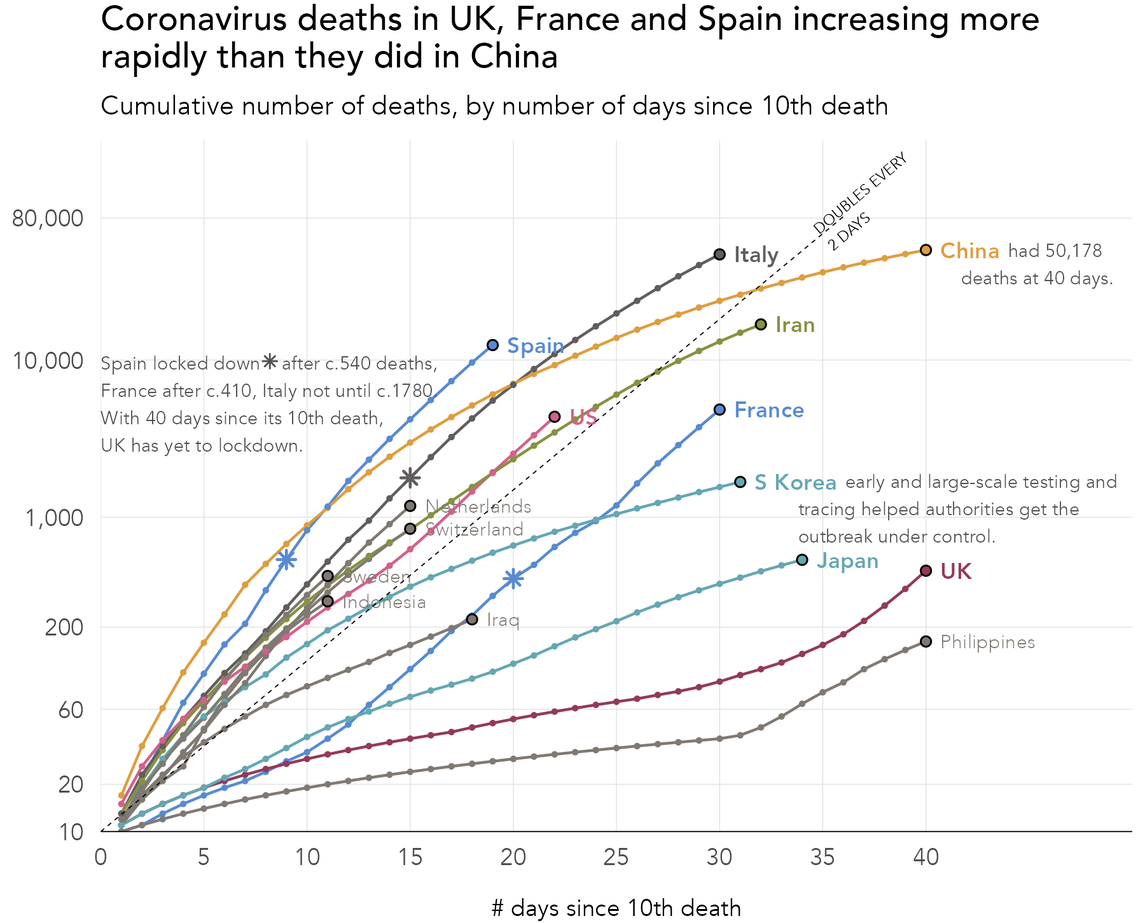
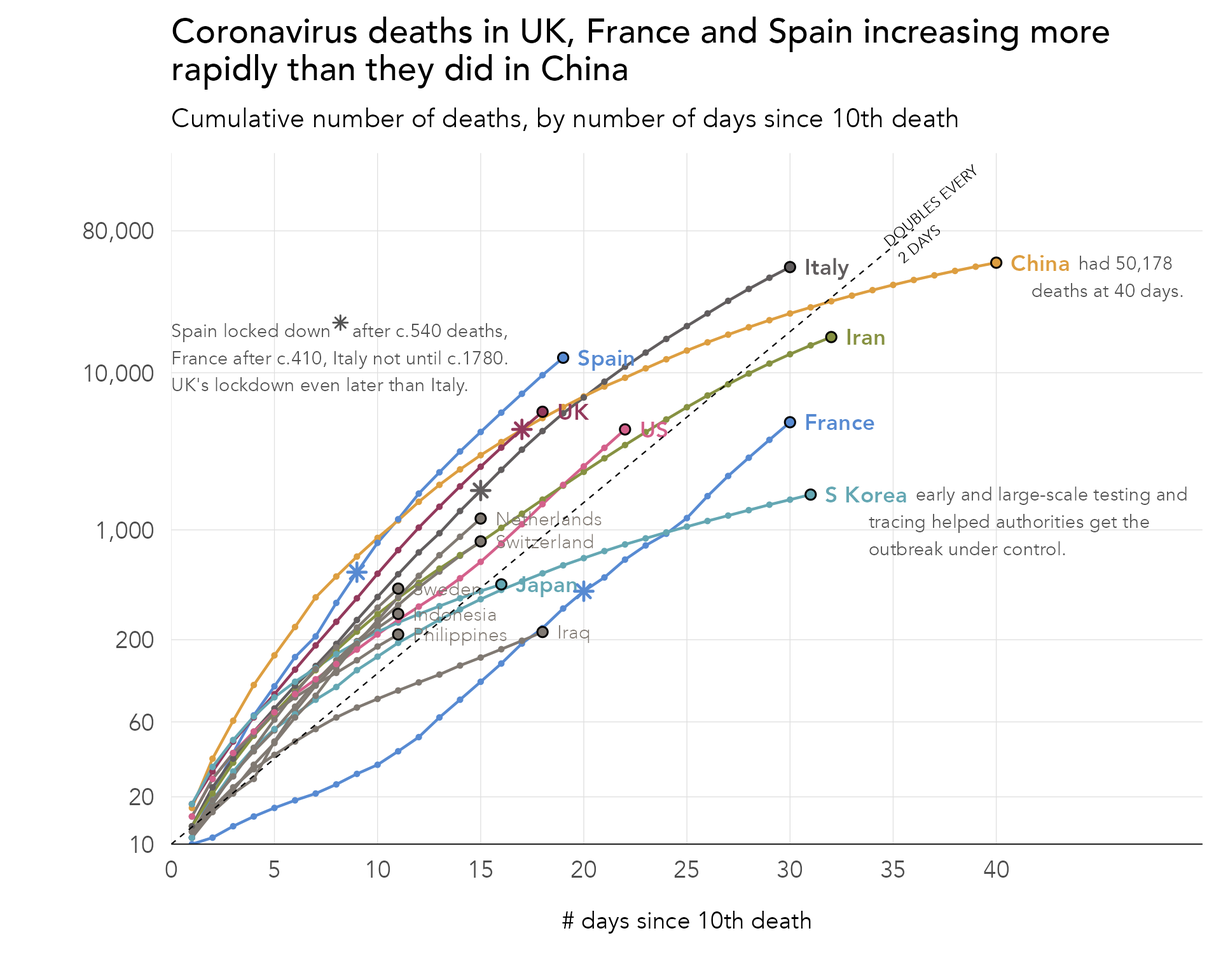
Deploy commit: ch8 updates efdb2c36f5c6d6f52aff2c126f9e9a9bf12e75d7

diff --git a/08-storytelling.html b/08-storytelling.html
@@ -312,19 +312,12 @@ Create ggplot2 graphics with non-standard annotations.</li>
 <p>In the sections that follow, we review some key Covid-19 visualizations and reflect on how they implement these sorts of storytelling devices.</p>
 </section><section id="designed-and-partial" class="level3" data-number="8.2.2"><h3 data-number="8.2.2" class="anchored" data-anchor-id="designed-and-partial">
 <span class="header-section-number">8.2.2</span> Designed and partial</h3>
-<p>Perhaps the most high-profile examples through the Covid-19 pandemic of data graphics specialised to communication were those produced by the Financial Times <span class="citation" data-cites="ft_coronavirus_2020">(<a href="references.html#ref-ft_coronavirus_2020" role="doc-biblioref">Financial Times 2020</a>)</span>. <span class="quarto-unresolved-ref">?fig-ft-vis</span> displays the most ubiquitous, the Financial Times’s trajectory tracker. Along the y-axis, cumulative numbers of deaths, and in other charts cases, are compared between countries with a log-scale. Along the x-axis is number of days that have elapsed since some threshold number of cases or deaths were recorded in each country and the y-axis counts of deaths presented on a log scale.</p>
+<p>Perhaps the most high-profile examples through the Covid-19 pandemic of data graphics specialised to communication were those produced by the Financial Times <span class="citation" data-cites="ft_coronavirus_2020">(<a href="references.html#ref-ft_coronavirus_2020" role="doc-biblioref">Financial Times 2020</a>)</span>. <a href="#fig-ft-vis">Figure&nbsp;<span>8.1</span></a> displays the most ubiquitous, the Financial Times’s trajectory tracker. Along the y-axis, cumulative numbers of deaths, and in other charts cases, are compared between countries with a log-scale. Along the x-axis is number of days that have elapsed since some threshold number of cases or deaths were recorded in each country and the y-axis counts of deaths presented on a log scale.</p>
 <div class="cell">
 <div class="cell-output-display">
-<div id="fig-ft-vis-1" class="quarto-figure quarto-figure-center anchored">
-<figure class="figure"><p><img src="figs/08/jbm-logchart.jpeg" class="img-fluid figure-img" style="width:95.0%"></p>
-<p></p><figcaption aria-hidden="true" class="figure-caption">Figure 8.1: <a href="https://www.ft.com/john-burn-murdoch">John Burn-Murdoch</a>’s international comparison of deaths, as it appeared on <a href="https://twitter.com/jburnmurdoch/status/1241820210455285760">twitter</a>. <strong>TO DO: Update with own implementation due to Copyright reasons.</strong></figcaption><p></p>
-</figure>
-</div>
-</div>
-<div class="cell-output-display">
-<div id="fig-ft-vis-2" class="quarto-figure quarto-figure-center anchored">
+<div id="fig-ft-vis" class="quarto-figure quarto-figure-center anchored">
 <figure class="figure"><p><img src="figs/08/cum_deaths_full.png" class="img-fluid figure-img" style="width:95.0%"></p>
-<p></p><figcaption aria-hidden="true" class="figure-caption">Figure 8.2: <a href="https://www.ft.com/john-burn-murdoch">John Burn-Murdoch</a>’s international comparison of deaths, as it appeared on <a href="https://twitter.com/jburnmurdoch/status/1241820210455285760">twitter</a>. <strong>TO DO: Update with own implementation due to Copyright reasons.</strong></figcaption><p></p>
+<p></p><figcaption aria-hidden="true" class="figure-caption">Figure 8.1: <a href="https://www.ft.com/john-burn-murdoch">John Burn-Murdoch</a>’s international comparison of deaths, as it appeared on <a href="https://twitter.com/jburnmurdoch/status/1241820210455285760">twitter</a>. For copyright reasons this is an approximate re-implementation of the original Financial Times graphic.</figcaption><p></p>
 </figure>
 </div>
 </div>
@@ -351,31 +344,24 @@ Note
 <p>You might be interested to know that most <a href="https://www.ft.com/graphics">Financial Times graphics</a> are built using ggplot2. A presentation in which John Burn-Mudoch makes the case for ggplot2 for Data Journalism <a href="https://johnburnmurdoch.github.io/slides/r-ggplot/#/">from this link</a>.</p>
 </div>
 </div>
-<p>An interesting design alternative that supports between country comparison is <a href="https://aatishb.com">Aatish Bhatia</a>’s <a href="https://aatishb.com/covidtrends/">Covid Trends</a> chart (<span class="quarto-unresolved-ref">?fig-covid-trends</span>). A double log scale is used and growth rates in new cases are presented on the y-axis with total case numbers, rather than time elapsed, plotted along the x-axis. Whilst the introduction of a double log scale might be judged to increase difficulty, actually this design narrows or simplifies the reader’s visual judgement to looking at the thing that we are most interested in: comparison of country growth rates against the two day doubling (annotated with the diagonal). The chart is also accompanied with an excellent <a href="https://www.hippocraticpost.com/covid-19-update/how-to-tell-if-were-beating-covid-19/">explanatory video</a>, in which many of the characteristics of visual data stories enumerated by <span class="citation" data-cites="roth_cartographic_2020">Roth (<a href="references.html#ref-roth_cartographic_2020" role="doc-biblioref">2021</a>)</span> can be identified.</p>
+<p>An interesting design alternative that supports between country comparison is <a href="https://aatishb.com">Aatish Bhatia</a>’s <a href="https://aatishb.com/covidtrends/">Covid Trends</a> chart (<a href="#fig-covid-trends">Figure&nbsp;<span>8.2</span></a>). A double log scale is used and growth rates in new cases are presented on the y-axis with total case numbers, rather than time elapsed, plotted along the x-axis. Whilst the introduction of a double log scale might be judged to increase difficulty, actually this design narrows or simplifies the reader’s visual judgement to looking at the thing that we are most interested in: comparison of country growth rates against the two day doubling (annotated with the diagonal). The chart is also accompanied with an excellent <a href="https://www.hippocraticpost.com/covid-19-update/how-to-tell-if-were-beating-covid-19/">explanatory video</a>, in which many of the characteristics of visual data stories enumerated by <span class="citation" data-cites="roth_cartographic_2020">Roth (<a href="references.html#ref-roth_cartographic_2020" role="doc-biblioref">2021</a>)</span> can be identified.</p>
 <div class="cell">
 <div class="cell-output-display">
-<div id="fig-covid-trends-1" class="quarto-figure quarto-figure-center anchored">
-<figure class="figure"><p><img src="figs/08/covid-trends.png" class="img-fluid figure-img" style="width:95.0%"></p>
-<p></p><figcaption aria-hidden="true" class="figure-caption">Figure 8.3: <a href="https://aatishb.com">Aatish Bhatia</a>’s <a href="https://aatishb.com/covidtrends/">Covid Trends</a> chart. <a href="https://github.com/aatishb/covidtrends#credits">Source</a>. <strong>TO DO: Update with own implementation (Copyright).</strong></figcaption><p></p>
-</figure>
-</div>
-</div>
-<div class="cell-output-display">
-<div id="fig-covid-trends-2" class="quarto-figure quarto-figure-center anchored">
+<div id="fig-covid-trends" class="quarto-figure quarto-figure-center anchored">
 <figure class="figure"><p><img src="figs/08/covid_logs.png" class="img-fluid figure-img" style="width:95.0%"></p>
-<p></p><figcaption aria-hidden="true" class="figure-caption">Figure 8.4: <a href="https://aatishb.com">Aatish Bhatia</a>’s <a href="https://aatishb.com/covidtrends/">Covid Trends</a> chart. <a href="https://github.com/aatishb/covidtrends#credits">Source</a>. <strong>TO DO: Update with own implementation (Copyright).</strong></figcaption><p></p>
+<p></p><figcaption aria-hidden="true" class="figure-caption">Figure 8.2: <a href="https://aatishb.com">Aatish Bhatia</a>’s <a href="https://aatishb.com/covidtrends/">Covid Trends</a> chart. <a href="https://github.com/aatishb/covidtrends#credits">Source</a>. For copyright reasons this is an approximate re-implementation of a static from the original webpage.</figcaption><p></p>
 </figure>
 </div>
 </div>
 </div>
 </section><section id="intuitive-and-compelling" class="level3" data-number="8.2.3"><h3 data-number="8.2.3" class="anchored" data-anchor-id="intuitive-and-compelling">
 <span class="header-section-number">8.2.3</span> Intuitive and compelling</h3>
-<p>According to <span class="citation" data-cites="roth_cartographic_2020">Roth (<a href="references.html#ref-roth_cartographic_2020" role="doc-biblioref">2021</a>)</span>, visual data stories are often explanatory. They make <em>compelling</em> use of graphical and rhetorical devices to support understanding. This is especially important in data-driven storytelling as it often involves concepts that are initially quite challenging. In <a href="#fig-lambrechts-connected">Figure&nbsp;<span>8.5</span></a> is a static image from a <a href="https://flourish.studio/2021/04/06/masters-connected-scatter-maarten-lambrechts/">data story written by Flourish</a> based on design work by <a href="https://twitter.com/maartenzam/status/1319622943526293505">Marteen Lambrechts</a>. The data story is essentially a design exposition <span class="citation" data-cites="beecham_design_2020 wood_design_2018">(<a href="references.html#ref-beecham_design_2020" role="doc-biblioref">Beecham et al. 2020</a>; <a href="references.html#ref-wood_design_2018" role="doc-biblioref">Wood, Kachkaev, and Dykes 2018</a>)</span>, guiding readers from the familiar to the unfamiliar. First a standard time series chart of hospitalisations and deaths is presented. Deficiencies in this layout are explained before progressively introducing the transformations involved to generate the preferred graphic, a <a href="http://steveharoz.com/research/connected_scatterplot/">connected scatterplot</a>. Ordering the story in this way explains design decisions and the trade-offs associated with visual design from a familiar starting point and helps justify new, sometimes unfamiliar encodings. Thinking about <span class="citation" data-cites="roth_cartographic_2020">Roth (<a href="references.html#ref-roth_cartographic_2020" role="doc-biblioref">2021</a>)</span>’s characteristics of visual storytelling, formulating a design story in this way helps build <em>intuition</em> – there is a clear entry point and clear progression.</p>
+<p>According to <span class="citation" data-cites="roth_cartographic_2020">Roth (<a href="references.html#ref-roth_cartographic_2020" role="doc-biblioref">2021</a>)</span>, visual data stories are often explanatory. They make <em>compelling</em> use of graphical and rhetorical devices to support understanding. This is especially important in data-driven storytelling as it often involves concepts that are initially quite challenging. In <a href="#fig-lambrechts-connected">Figure&nbsp;<span>8.3</span></a> is a static image from a <a href="https://flourish.studio/2021/04/06/masters-connected-scatter-maarten-lambrechts/">data story written by Flourish</a> based on design work by <a href="https://twitter.com/maartenzam/status/1319622943526293505">Marteen Lambrechts</a>. The data story is essentially a design exposition <span class="citation" data-cites="beecham_design_2020 wood_design_2018">(<a href="references.html#ref-beecham_design_2020" role="doc-biblioref">Beecham et al. 2020</a>; <a href="references.html#ref-wood_design_2018" role="doc-biblioref">Wood, Kachkaev, and Dykes 2018</a>)</span>, guiding readers from the familiar to the unfamiliar. First a standard time series chart of hospitalisations and deaths is presented. Deficiencies in this layout are explained before progressively introducing the transformations involved to generate the preferred graphic, a <a href="http://steveharoz.com/research/connected_scatterplot/">connected scatterplot</a>. Ordering the story in this way explains design decisions and the trade-offs associated with visual design from a familiar starting point and helps justify new, sometimes unfamiliar encodings. Thinking about <span class="citation" data-cites="roth_cartographic_2020">Roth (<a href="references.html#ref-roth_cartographic_2020" role="doc-biblioref">2021</a>)</span>’s characteristics of visual storytelling, formulating a design story in this way helps build <em>intuition</em> – there is a clear entry point and clear progression.</p>
 <div class="cell">
 <div class="cell-output-display">
 <div id="fig-lambrechts-connected" class="quarto-figure quarto-figure-center anchored">
 <figure class="figure"><p><img src="figs/08/lambrechts-connected-flourish.png" class="img-fluid figure-img" style="width:95.0%"></p>
-<p></p><figcaption aria-hidden="true" class="figure-caption">Figure 8.5: Static image from a data story written by <a href="https://flourish.studio/2021/04/06/masters-connected-scatter-maarten-lambrechts/">Flourish</a> demonstrating how connected scatterplots can be used to analyse changes in hospitalisations and deaths. <strong>TO DO: Update with own implementation (Copyright).</strong></figcaption><p></p>
+<p></p><figcaption aria-hidden="true" class="figure-caption">Figure 8.3: Static image from a data story written by <a href="https://flourish.studio/2021/04/06/masters-connected-scatter-maarten-lambrechts/">Flourish</a> demonstrating how connected scatterplots can be used to analyse changes in hospitalisations and deaths. <strong>TO DO: Update with own implementation (Copyright).</strong></figcaption><p></p>
 </figure>
 </div>
 </div>
@@ -394,26 +380,26 @@ Note
 <p>For an example of guided design exposition for explaining complex designs in <a href="https://twitter.com/rJBeecham/status/1317019462453895168">analysis of Covid-19 cases data</a>, also see <span class="citation" data-cites="beecham_on_2021">Beecham et al. (<a href="references.html#ref-beecham_on_2021" role="doc-biblioref">2021</a>)</span>, which develops ways of showing simultaneously absolute and relative change in cases, with geographic context.</p>
 </div>
 </div>
-<p><a href="#fig-ft-anim">Figure&nbsp;<span>8.6</span></a>, again from Financial Times, is another example of how animation can be used to build <em>intuition</em>. The main objective is to demonstrate how different 2020 is in terms of admissions to intensive care compared to a normal year. This was in response to claims that Covid-19 behaves much like seasonal flu; to this extent the graphic is also quite <em>political</em>. Each year from 2013-14 is added to the chart and the y-axis rescaled to reflect the new numbers. This helps build expectation around normal variability in a similar way to the <a href="https://medium.com/hci-design-at-uw/hypothetical-outcomes-plots-experiencing-the-uncertain-b9ea60d7c740">hypothetical outcome plots</a> <span class="citation" data-cites="hullman_hypothetical_2015">(<a href="references.html#ref-hullman_hypothetical_2015" role="doc-biblioref">Hullman, Resnick, and Adar 2015</a>)</span> covered in the previous chapter. The expectation is then roundly debunked by the introduction of the 2020-21 line in red, with animated rescaling of the y-axis used for further emphasis.</p>
+<p><a href="#fig-ft-anim">Figure&nbsp;<span>8.4</span></a>, again from Financial Times, is another example of how animation can be used to build <em>intuition</em>. The main objective is to demonstrate how different 2020 is in terms of admissions to intensive care compared to a normal year. This was in response to claims that Covid-19 behaves much like seasonal flu; to this extent the graphic is also quite <em>political</em>. Each year from 2013-14 is added to the chart and the y-axis rescaled to reflect the new numbers. This helps build expectation around normal variability in a similar way to the <a href="https://medium.com/hci-design-at-uw/hypothetical-outcomes-plots-experiencing-the-uncertain-b9ea60d7c740">hypothetical outcome plots</a> <span class="citation" data-cites="hullman_hypothetical_2015">(<a href="references.html#ref-hullman_hypothetical_2015" role="doc-biblioref">Hullman, Resnick, and Adar 2015</a>)</span> covered in the previous chapter. The expectation is then roundly debunked by the introduction of the 2020-21 line in red, with animated rescaling of the y-axis used for further emphasis.</p>
 <div class="cell">
 <div class="cell-output-display">
 <div id="fig-ft-anim" class="quarto-figure quarto-figure-center anchored">
 <figure class="figure"><p><img src="figs/08/jbm-anim.gif" class="img-fluid figure-img" style="width:95.0%"></p>
-<p></p><figcaption aria-hidden="true" class="figure-caption">Figure 8.6: <a href="https://www.ft.com/john-burn-murdoch">John Burn-Murdoch</a>’s animated rescaling <a href="https://twitter.com/jburnmurdoch/status/1347200811303055364">via twitter</a> demonstrating how different in terms of intensive care admissions 2020/21 is to a standard flu season.<strong>TO DO: Update with own implementation (Copyright).</strong></figcaption><p></p>
+<p></p><figcaption aria-hidden="true" class="figure-caption">Figure 8.4: <a href="https://www.ft.com/john-burn-murdoch">John Burn-Murdoch</a>’s animated rescaling <a href="https://twitter.com/jburnmurdoch/status/1347200811303055364">via twitter</a> demonstrating how different in terms of intensive care admissions 2020/21 is to a standard flu season.<strong>TO DO: Update with own implementation (Copyright).</strong></figcaption><p></p>
 </figure>
 </div>
 </div>
 </div>
 </section><section id="political" class="level3" data-number="8.2.4"><h3 data-number="8.2.4" class="anchored" data-anchor-id="political">
 <span class="header-section-number">8.2.4</span> Political</h3>
-<p><a href="#fig-ft-vaccine">Figure&nbsp;<span>8.7</span></a> presents a final example of <a href="https://twitter.com/jburnmurdoch/status/1382013080448724994">visual narrative</a> from Financial Times with an obviously political purpose. The graphic was created in response to claims from the UK’s Prime Minister that it is largely restrictions rather than vaccination that has reduced infection rates in the country. Interesting here is how annotation and <em>visual saliency</em> is used to direct how the graphic is perceived. If the graphic was only annotated with points in time when lockdown and vaccination was initiated, it would invite us to make judgements about the effects of these two events on infectious rates. That the graphic makes highly salient annotations labelling the (unmeasurable) effect of <em>lockdown</em> and <em>vaccine</em> is an interesting addition. There is little room for ambiguity.</p>
+<p><a href="#fig-ft-vaccine">Figure&nbsp;<span>8.5</span></a> presents a final example of <a href="https://twitter.com/jburnmurdoch/status/1382013080448724994">visual narrative</a> from Financial Times with an obviously political purpose. The graphic was created in response to claims from the UK’s Prime Minister that it is largely restrictions rather than vaccination that has reduced infection rates in the country. Interesting here is how annotation and <em>visual saliency</em> is used to direct how the graphic is perceived. If the graphic was only annotated with points in time when lockdown and vaccination was initiated, it would invite us to make judgements about the effects of these two events on infectious rates. That the graphic makes highly salient annotations labelling the (unmeasurable) effect of <em>lockdown</em> and <em>vaccine</em> is an interesting addition. There is little room for ambiguity.</p>
 <p>This sort of presentation, labelling the chart with an unmeasurable effect, may risk graphical integrity (see <span class="citation" data-cites="tufte_visual_1983">Tufte (<a href="references.html#ref-tufte_visual_1983" role="doc-biblioref">1983</a>)</span>’s <a href="https://infovis-wiki.net/wiki/Lie_Factor">lie factor</a>). In a keynote given at IEEE VIS 2020 <span class="citation" data-cites="burnmurdoch_beliv_2020">(<a href="references.html#ref-burnmurdoch_beliv_2020" role="doc-biblioref">Burn-Murdoch 2020</a>)</span>, John Burn Murdoch, who created this and the other Financial Times graphics, reflected on his experiences generating data stories early in the pandemic – that the way in which the FT’s data graphics were interpreted, and misinterpreted, varied depending on the prior expectations and political beliefs of those consuming them. The chart labelling in this case might have been added to signal more directly the evidence-based argument that was being made – to amplify the conclusion believed to be supported by the data.</p>
 <p>Clearly all data analysis is heavily informed by the values, prejudices, motivations and incentives of those undertaking them. As demonstrated by <span class="citation" data-cites="roth_cartographic_2020">Roth (<a href="references.html#ref-roth_cartographic_2020" role="doc-biblioref">2021</a>)</span>’s characteristics of data storytelling, these individual factors are necessary to communicate effectively. An interesting question, then, is around how integrity and trust is designed into a data analysis. Perhaps in the case of the Financial Times data journalists, this trust is established over time, through a portfolio of data analysis work that is considered, communicated transparently and with humility.</p>
 <div class="cell">
 <div class="cell-output-display">
 <div id="fig-ft-vaccine" class="quarto-figure quarto-figure-center anchored">
 <figure class="figure"><p><img src="figs/08/jbm-vaccine.jpeg" class="img-fluid figure-img" style="width:95.0%"></p>
-<p></p><figcaption aria-hidden="true" class="figure-caption">Figure 8.7: <a href="https://www.ft.com/john-burn-murdoch">John Burn-Murdoch</a>’s analysis <a href="https://twitter.com/jburnmurdoch/status/1382013080448724994">via twitter</a> evaluating the role of lockdown and the vaccine. <strong>TO DO: Update with own implementation (Copyright).</strong></figcaption><p></p>
+<p></p><figcaption aria-hidden="true" class="figure-caption">Figure 8.5: <a href="https://www.ft.com/john-burn-murdoch">John Burn-Murdoch</a>’s analysis <a href="https://twitter.com/jburnmurdoch/status/1382013080448724994">via twitter</a> evaluating the role of lockdown and the vaccine. <strong>TO DO: Update with own implementation (Copyright).</strong></figcaption><p></p>
 </figure>
 </div>
 </div>
@@ -428,24 +414,24 @@ Note
 </div>
 </div>
 <div class="callout-body-container callout-body">
-<p>The annotations in <a href="#fig-ft-vaccine">Figure&nbsp;<span>8.7</span></a> have heavy saliency thanks to the parsimonious use of axis titles, marks and legends, and other non-data-ink <span class="citation" data-cites="tufte_visual_1983">(<a href="references.html#ref-tufte_visual_1983" role="doc-biblioref">Tufte 1983</a>)</span>.</p>
+<p>The annotations in <a href="#fig-ft-vaccine">Figure&nbsp;<span>8.5</span></a> have heavy saliency thanks to the parsimonious use of axis titles, marks and legends, and other non-data-ink <span class="citation" data-cites="tufte_visual_1983">(<a href="references.html#ref-tufte_visual_1983" role="doc-biblioref">Tufte 1983</a>)</span>.</p>
 </div>
 </div>
 </section></section><section id="techniques" class="level2" data-number="8.3"><h2 data-number="8.3" class="anchored" data-anchor-id="techniques">
 <span class="header-section-number">8.3</span> Techniques</h2>
-<p>The technical element demonstrates how to design plots deliberatively with annotations in ggplot2. We will recreate a glyphmap type graphic that originally appeared in <a href="https://www.washingtonpost.com/nation/2020/05/24/coronavirus-rural-america-outbreaks/?arc404=true">The Washington Post</a> to tell a story of growth in Covid-19 cases by US county. The graphic is presented in <a href="#fig-wp">Figure&nbsp;<span>8.8</span></a>. Each US county is represented as a line encoded by daily growth rates in new cases between 3rd May and 26th May 2020. Lines are positioned at the geographic centre of each county.</p>
+<p>The technical element demonstrates how to design plots deliberatively with annotations in ggplot2. We will recreate a glyphmap type graphic that originally appeared in <a href="https://www.washingtonpost.com/nation/2020/05/24/coronavirus-rural-america-outbreaks/?arc404=true">The Washington Post</a> to tell a story of growth in Covid-19 cases by US county. The graphic is presented in <a href="#fig-wp">Figure&nbsp;<span>8.6</span></a>. Each US county is represented as a line encoded by daily growth rates in new cases between 3rd May and 26th May 2020. Lines are positioned at the geographic centre of each county.</p>
 <div class="cell">
 <div class="cell-output-display">
 <div id="fig-wp" class="quarto-figure quarto-figure-center anchored">
 <figure class="figure"><p><img src="figs/08/wp.png" class="img-fluid figure-img" style="width:100.0%"></p>
-<p></p><figcaption aria-hidden="true" class="figure-caption">Figure 8.8: Glyphmap design displaying growth in COVID-19 cases by US county, based on the design by Thebault and Hauslohner, original in <a href="https://www.washingtonpost.com/nation/2020/05/24/coronavirus-rural-america-outbreaks/?arc404=true">The Washington Post</a>.</figcaption><p></p>
+<p></p><figcaption aria-hidden="true" class="figure-caption">Figure 8.6: Glyphmap design displaying growth in COVID-19 cases by US county, based on the design by Thebault and Hauslohner, original in <a href="https://www.washingtonpost.com/nation/2020/05/24/coronavirus-rural-america-outbreaks/?arc404=true">The Washington Post</a>.</figcaption><p></p>
 </figure>
 </div>
 </div>
 </div>
-<p><a href="#fig-wp">Figure&nbsp;<span>8.8</span></a> is certainly data dense. Without careful decisions on which aspects to emphasise it would be quite unreadable. Line thickness is varied according to relative infection rates (cumulative cases/population size) and growth rate is double encoded with colour value – darker and steeper lines for higher growth rates. Even with these additions it is challenging to discern trajectories for every county, but instead a typical model or expectation of these trajectories can be learnt from visually scanning the graphic. That there is spatial autocorrelation in trajectories means an overall pattern of exposure can be inferred, before eyes are drawn to exceptions. Initially these are towards the extreme end: tall, steep, dark and thick lines suggesting rapid growth rates and high case rates. Secondary patterns can also be discerned, for example thick and mid-dark lines surrounded by lines that are generally lighter and thinner: counties that appear locally exceptional in having comparatively high growth and exposure rates.</p>
-<p>The design is impressive, and there is an obvious benefit to showing growth rates in their spatial position. However, we are not looking at absolute numbers here. The counties that are most salient are not those with the largest case counts. Rather, they have experienced rapid growth since the number of cases reported on 3rd May. So the graphic is most certainly <em>partial</em> and <em>designed</em> to suit a particular purpose. A slight adjustment in the implementation in <a href="#fig-wp">Figure&nbsp;<span>8.8</span></a> was to only show growth rates for counties that had non-negligible case counts on 3rd May (<span class="math inline">\geq20</span> cases).</p>
-<p>Without the careful integration of annotations and non-standard legends, <a href="#fig-wp">Figure&nbsp;<span>8.8</span></a> would not be so successful. The aim of this technical section is to demonstrate an approach to generating heavily designed annotations – custom legends, which are often necessary when communicating with maps. For more extensive demonstration of how charts can be annotated and refined, do see the Further Reading section of this chapter.</p>
+<p><a href="#fig-wp">Figure&nbsp;<span>8.6</span></a> is certainly data dense. Without careful decisions on which aspects to emphasise it would be quite unreadable. Line thickness is varied according to relative infection rates (cumulative cases/population size) and growth rate is double encoded with colour value – darker and steeper lines for higher growth rates. Even with these additions it is challenging to discern trajectories for every county, but instead a typical model or expectation of these trajectories can be learnt from visually scanning the graphic. That there is spatial autocorrelation in trajectories means an overall pattern of exposure can be inferred, before eyes are drawn to exceptions. Initially these are towards the extreme end: tall, steep, dark and thick lines suggesting rapid growth rates and high case rates. Secondary patterns can also be discerned, for example thick and mid-dark lines surrounded by lines that are generally lighter and thinner: counties that appear locally exceptional in having comparatively high growth and exposure rates.</p>
+<p>The design is impressive, and there is an obvious benefit to showing growth rates in their spatial position. However, we are not looking at absolute numbers here. The counties that are most salient are not those with the largest case counts. Rather, they have experienced rapid growth since the number of cases reported on 3rd May. So the graphic is most certainly <em>partial</em> and <em>designed</em> to suit a particular purpose. A slight adjustment in the implementation in <a href="#fig-wp">Figure&nbsp;<span>8.6</span></a> was to only show growth rates for counties that had non-negligible case counts on 3rd May (<span class="math inline">\geq20</span> cases).</p>
+<p>Without the careful integration of annotations and non-standard legends, <a href="#fig-wp">Figure&nbsp;<span>8.6</span></a> would not be so successful. The aim of this technical section is to demonstrate an approach to generating heavily designed annotations – custom legends, which are often necessary when communicating with maps. For more extensive demonstration of how charts can be annotated and refined, do see the Further Reading section of this chapter.</p>
 <section id="import" class="level3" data-number="8.3.1"><h3 data-number="8.3.1" class="anchored" data-anchor-id="import">
 <span class="header-section-number">8.3.1</span> Import</h3>
 <ul>
@@ -460,7 +446,7 @@ Note
 <div class="cell-output-display">
 <div id="fig-wp-basic" class="quarto-figure quarto-figure-center anchored">
 <figure class="figure"><p><img src="figs/08/wp-basic.png" class="img-fluid figure-img" style="width:100.0%"></p>
-<p></p><figcaption aria-hidden="true" class="figure-caption">Figure 8.9: Glyphmap design displaying growth in COVID-19 cases by US county, without legend and annotations.</figcaption><p></p>
+<p></p><figcaption aria-hidden="true" class="figure-caption">Figure 8.7: Glyphmap design displaying growth in COVID-19 cases by US county, without legend and annotations.</figcaption><p></p>
 </figure>
 </div>
 </div>
@@ -477,7 +463,7 @@ Note
 <span>  <span class="fu">coord_sf</span><span class="op">(</span>crs <span class="op">=</span> <span class="fl">5070</span>, datum<span class="op">=</span><span class="cn">NA</span>, clip<span class="op">=</span><span class="st">"off"</span><span class="op">)</span> <span class="op">+</span></span>
 <span>  <span class="fu">geom_point</span><span class="op">(</span></span>
 <span>    data<span class="op">=</span><span class="va">.</span><span class="op">%&gt;%</span> <span class="fu"><a href="https://rdrr.io/r/stats/filter.html">filter</a></span><span class="op">(</span><span class="va">date</span><span class="op">==</span><span class="st">"2020-05-03"</span><span class="op">)</span>, </span>
-<span>    <span class="fu">aes</span><span class="op">(</span>x<span class="op">=</span><span class="va">x</span>, y<span class="op">=</span><span class="va">y</span>, size<span class="op">=</span><span class="va">case_rate</span><span class="op">)</span></span>
+<span>    <span class="fu">aes</span><span class="op">(</span>x<span class="op">=</span><span class="va">x</span>, y<span class="op">=</span><span class="va">y</span>, size<span class="op">=</span><span class="va">case_rate</span>, alpha<span class="op">=</span><span class="va">binned_growth_rate</span>, colour<span class="op">=</span><span class="va">binned_growth_rate</span><span class="op">)</span></span>
 <span>  <span class="op">)</span> <span class="op">+</span></span>
 <span>  <span class="co"># Plot case data.</span></span>
 <span>  <span class="fu">geom_path</span><span class="op">(</span></span>
@@ -571,7 +557,7 @@ Note
 </div>
 </section><section id="build-custom-legend" class="level3" data-number="8.3.4"><h3 data-number="8.3.4" class="anchored" data-anchor-id="build-custom-legend">
 <span class="header-section-number">8.3.4</span> Build custom legend</h3>
-<p>Since <a href="#fig-wp">Figure&nbsp;<span>8.8</span></a> is a non-standard data graphic coded in a more low-level way with <code>geom_segment()</code>, it is useful to accompany it with a more expressive legend. We therefore build our own legend from scratch, using the geographic space of the plot as our canvas.</p>
+<p>Since <a href="#fig-wp">Figure&nbsp;<span>8.6</span></a> is a non-standard data graphic coded in a more low-level way with <code>geom_segment()</code>, it is useful to accompany it with a more expressive legend. We therefore build our own legend from scratch, using the geographic space of the plot as our canvas.</p>
 <div id="fig-legends" class="quarto-figure quarto-figure-center anchored">
 <figure class="figure"><div class="columns">
 <div class="column" style="width:47%;">
@@ -588,7 +574,7 @@ Note
 </div>
 </div>
 </div>
-<p></p><figcaption aria-hidden="true" class="figure-caption">Figure 8.10: Custom legends used to demonstrate growth and case rates.</figcaption><p></p>
+<p></p><figcaption aria-hidden="true" class="figure-caption">Figure 8.8: Custom legends used to demonstrate growth and case rates.</figcaption><p></p>
 </figure>
 </div>
 <p>To support positioning of the legend we extract the spatial limits, or bounding box, of our plot area – the mainland US.</p>
@@ -598,7 +584,7 @@ Note
 <span><span class="va">width</span> <span class="op">&lt;-</span> <span class="va">bbox</span><span class="op">$</span><span class="va">xmax</span><span class="op">-</span><span class="va">bbox</span><span class="op">$</span><span class="va">xmin</span></span>
 <span><span class="va">height</span> <span class="op">&lt;-</span> <span class="va">bbox</span><span class="op">$</span><span class="va">ymax</span><span class="op">-</span><span class="va">bbox</span><span class="op">$</span><span class="va">ymin</span></span></code><button title="Copy to Clipboard" class="code-copy-button"><i class="bi"></i></button></pre></div>
 </div>
-<p>We then create a dataset for the top right legend displaying the different categories of growth rate (<a href="#fig-wp-growth-legend">Figure&nbsp;<span>8.10 (a)</span></a>). Counties filtered by their different growth rates were identified manually. As you will see shortly we use exactly the same <em>encoding</em> as the main graphic for the example legend lines, but rather than positioning these selected counties in their real geographic position, we override their x- and y- location so that the lines appear in a margin to the top right of the graphic. This is achieved in the <code>mutate()</code>, where we set x-position to start at the right quarter of the graphic (<code>bbox$xmax-.25*width</code>) and y-position to start slightly above the top of the graphic <code>bbox$ymax+.05*height</code>. <code>case_rate</code> is set to a constant as we don’t want line width to vary and also a manually created <code>label</code> variable.</p>
+<p>We then create a dataset for the top right legend displaying the different categories of growth rate (<a href="#fig-wp-growth-legend">Figure&nbsp;<span>8.8 (a)</span></a>). Counties filtered by their different growth rates were identified manually. As you will see shortly we use exactly the same <em>encoding</em> as the main graphic for the example legend lines, but rather than positioning these selected counties in their real geographic position, we override their x- and y- location so that the lines appear in a margin to the top right of the graphic. This is achieved in the <code>mutate()</code>, where we set x-position to start at the right quarter of the graphic (<code>bbox$xmax-.25*width</code>) and y-position to start slightly above the top of the graphic <code>bbox$ymax+.05*height</code>. <code>case_rate</code> is set to a constant as we don’t want line width to vary and also a manually created <code>label</code> variable.</p>
 <div class="cell">
 <div class="sourceCode" id="cb6"><pre class="downlit sourceCode r code-with-copy"><code class="sourceCode R"><span><span class="co"># Legend : growth</span></span>
 <span><span class="va">legend_growth</span> <span class="op">&lt;-</span> <span class="va">county_data</span> <span class="op">|&gt;</span></span>
@@ -619,7 +605,7 @@ Note
 <span>    <span class="op">)</span></span>
 <span>  <span class="op">)</span></span></code><button title="Copy to Clipboard" class="code-copy-button"><i class="bi"></i></button></pre></div>
 </div>
-<p>A separate dataset is also created for drawing the top left legend (<a href="#fig-wp-case-legend">Figure&nbsp;<span>8.10 (b)</span></a>), showing different case rates relative to population size. In the <code>mutate()</code> we set x-position to start towards the left of the graphic (<code>bbox$xmax-.88*width</code>) and y-position to start slightly above the top of the graphic <code>bbox$ymax+.05*height</code>. We want to draw three lines corresponding to a low, medium and high growth rate and so <code>pivot_longer()</code> to duplicate the daily case data over rows. Each line needs to be drawn next to one another and this is achieved with the <code>offset_day</code> variable, a multiple applied to the geographic <code>width</code> of US used later in the ggplot2 specification.</p>
+<p>A separate dataset is also created for drawing the top left legend (<a href="#fig-wp-case-legend">Figure&nbsp;<span>8.8 (b)</span></a>), showing different case rates relative to population size. In the <code>mutate()</code> we set x-position to start towards the left of the graphic (<code>bbox$xmax-.88*width</code>) and y-position to start slightly above the top of the graphic <code>bbox$ymax+.05*height</code>. We want to draw three lines corresponding to a low, medium and high growth rate and so <code>pivot_longer()</code> to duplicate the daily case data over rows. Each line needs to be drawn next to one another and this is achieved with the <code>offset_day</code> variable, a multiple applied to the geographic <code>width</code> of US used later in the ggplot2 specification.</p>
 <div class="cell">
 <div class="sourceCode" id="cb7"><pre class="downlit sourceCode r code-with-copy"><code class="sourceCode R"><span><span class="co"># Legend : case</span></span>
 <span><span class="va">legend_case</span> <span class="op">&lt;-</span> <span class="va">county_data</span> <span class="op">|&gt;</span></span>
